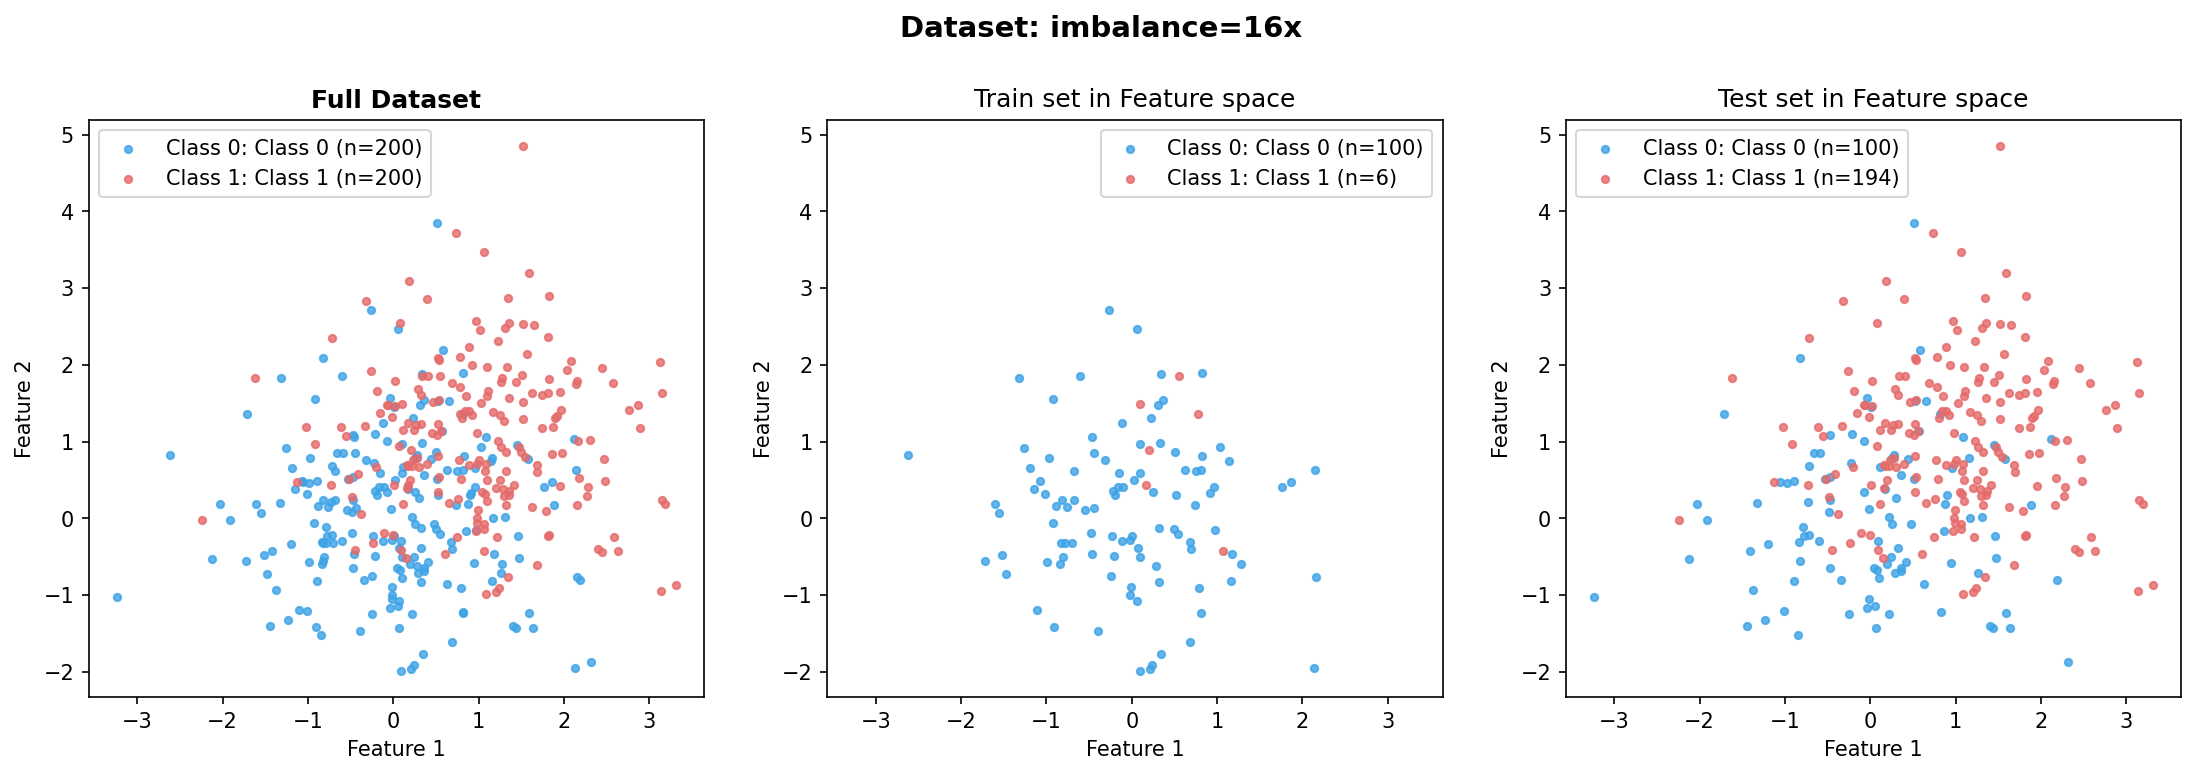
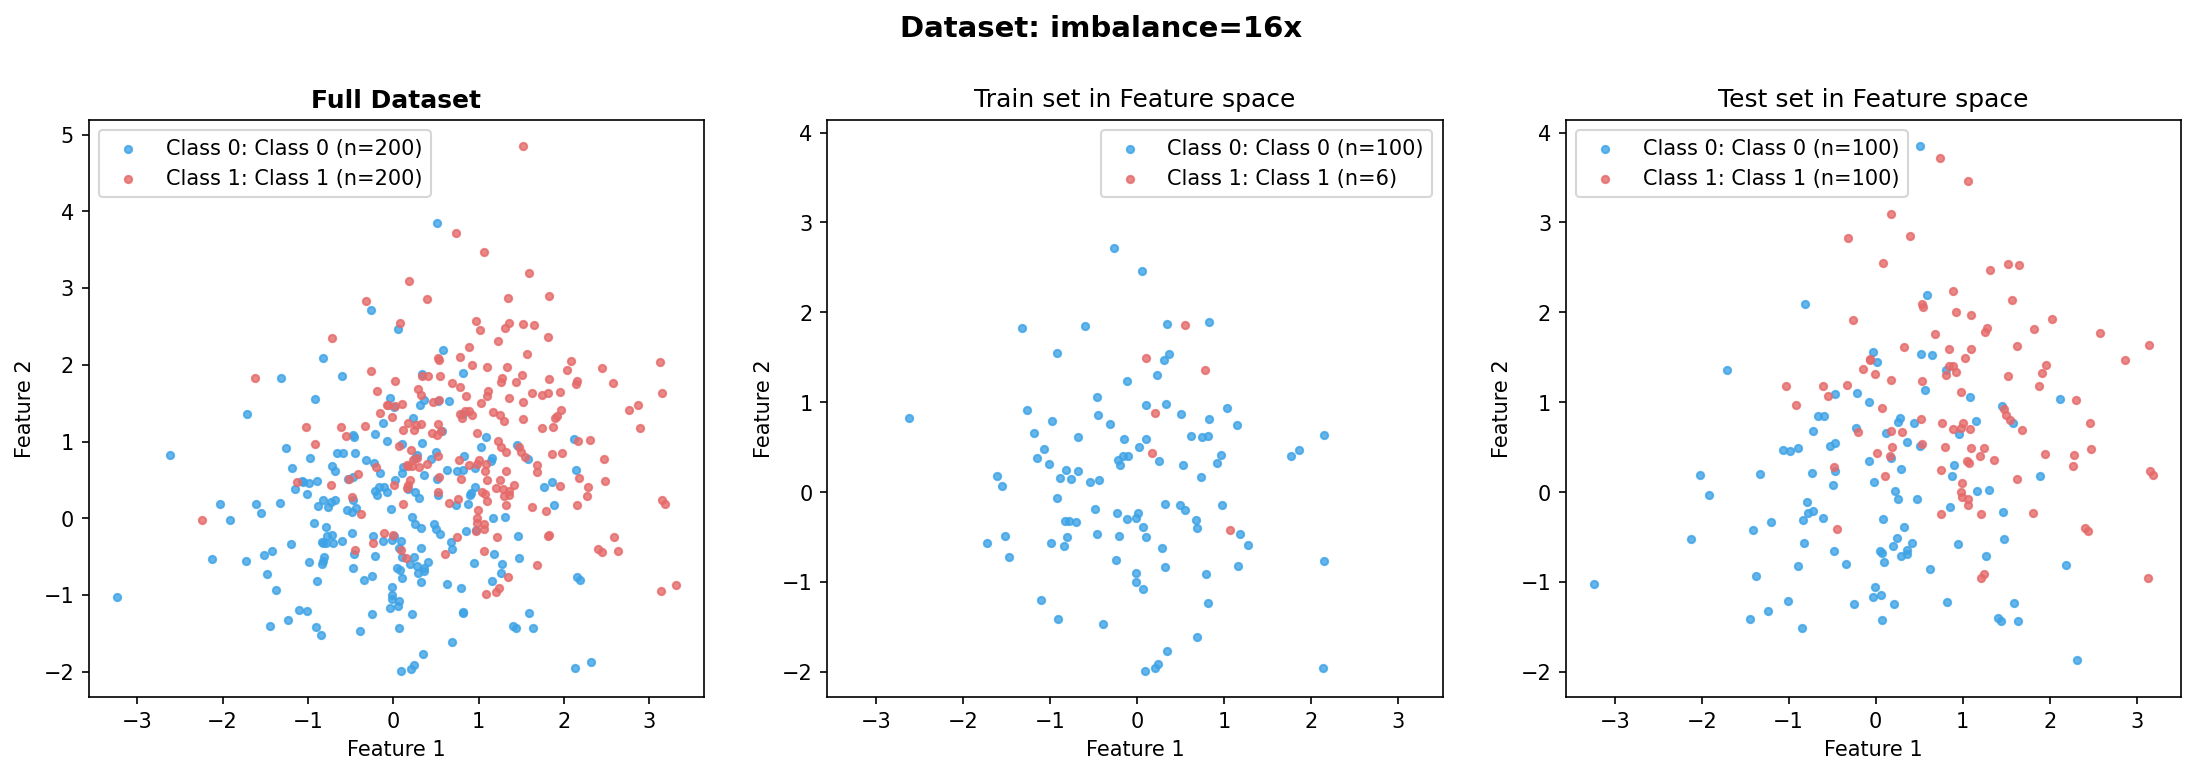
new experiments api

diff --git a/data_complexity/model_experiments/runs/run_gaussian_imbalance.py b/data_complexity/model_experiments/runs/run_gaussian_imbalance.py
@@ -35,9 +35,15 @@ models = [
 config = ExperimentConfig(
     dataset=DatasetSpec(
         dataset_type="Gaussian",
-        fixed_params={"class_separation": 1.0, "cov_type": "spherical", "cov_scale": 1.0},
-        num_samples=400,
-        train_size=0.5,
+        fixed_params={
+            "num_samples": 400,
+            "train_size": 0.5,
+            "class_separation": 1.0, 
+            "cov_type": 
+            "spherical", 
+            "cov_scale": 1.0,
+            "equal_test": True, # Ensure test set is balanced for fair evaluation of imbalance effects
+            },
     ),
     vary_parameter=ParameterSpec(
         name="minority_reduce_scaler",

diff --git a/data_complexity/model_experiments/runs/run_gaussian_variance.py b/data_complexity/model_experiments/runs/run_gaussian_variance.py
@@ -30,8 +30,13 @@ models = [
 config = ExperimentConfig(
     dataset=DatasetSpec(
         dataset_type="Gaussian",
-        fixed_params={"class_separation": 4.0, "cov_type": "spherical"},
-        num_samples=400,
+        fixed_params={
+            "num_samples": 400,
+            "train_size": 0.5,
+            "class_separation": 4.0, 
+            "cov_type": "spherical",
+            "equal_test": True, # Ensure test set is balanced for fair evaluation of variance effects
+            },
     ),
     vary_parameter=ParameterSpec(
         name="cov_scale",
